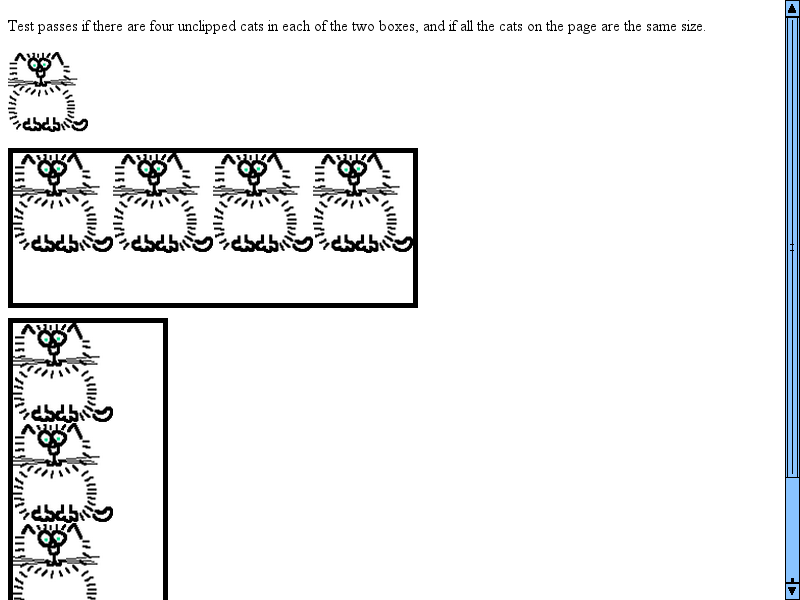
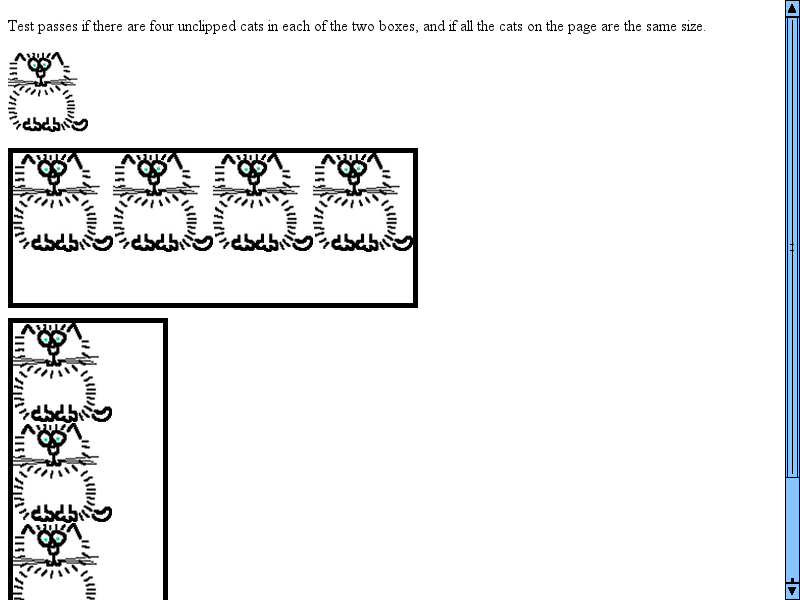
Round space up for background-image: round and space
The numerical rounding code that determines the image and space sizes
for background-repeat: round and background-repeat: space leads to
slivers of images appearing at the edge of the tiling.

It is better to round up and crop the last tile a little.

R=fmalita@chromium.org,pdr@chromium.org,chrishtr@chromium.org
BUG=449600

Review URL: https://codereview.chromium.org/860813003

git-svn-id: svn://svn.chromium.org/blink/trunk@188778 bbb929c8-8fbe-4397-9dbb-9b2b20218538

Changed region(s): [[0.0, 0.27, 0.5312, 0.42], [0.0312, 0.54, 0.1562, 1.0]]

diff --git a/LayoutTests/css3/masking/mask-repeat-round-auto2-expected.html b/LayoutTests/css3/masking/mask-repeat-round-auto2-expected.html
@@ -14,7 +14,7 @@
                 border: 50px solid blue;
                 padding: 50px;
                 -webkit-mask-image: url(resources/circle.png);
-                -webkit-mask-size: 124px 100px;
+                -webkit-mask-size: 123px 100px;
                 -webkit-mask-repeat: repeat;
                 -webkit-mask-origin: border-box;
                 -webkit-mask-clip: border-box;

diff --git a/LayoutTests/css3/masking/mask-repeat-round-auto1-expected.html b/LayoutTests/css3/masking/mask-repeat-round-auto1-expected.html
@@ -14,7 +14,7 @@
                 border: 50px solid blue;
                 padding: 50px;
                 -webkit-mask-image: url(resources/circle.png);
-                -webkit-mask-size: 111px 88px;
+                -webkit-mask-size: 111px 84px;
                 -webkit-mask-repeat: repeat;
                 -webkit-mask-origin: border-box;
                 -webkit-mask-clip: border-box;

diff --git a/LayoutTests/css3/masking/mask-repeat-round-border-expected.html b/LayoutTests/css3/masking/mask-repeat-round-border-expected.html
@@ -14,7 +14,7 @@
                 border: 50px solid blue;
                 padding: 50px;
                 -webkit-mask-image: url(resources/circle.png);
-                -webkit-mask-size: 111px 85px;
+                -webkit-mask-size: 111px 86px;
                 -webkit-mask-repeat: repeat;
                 -webkit-mask-origin: border-box;
                 -webkit-mask-clip: border-box;

diff --git a/LayoutTests/css3/masking/mask-repeat-round-content-expected.html b/LayoutTests/css3/masking/mask-repeat-round-content-expected.html
@@ -14,7 +14,7 @@
                 border: 50px solid blue;
                 padding: 50px;
                 -webkit-mask-image: url(resources/circle.png);
-                -webkit-mask-size: 72px 40px;
+                -webkit-mask-size: 73px 40px;
                 -webkit-mask-repeat: repeat;
                 -webkit-mask-origin: content-box;
                 -webkit-mask-clip: content-box;

diff --git a/LayoutTests/css3/background/background-repeat-round-auto2-expected.html b/LayoutTests/css3/background/background-repeat-round-auto2-expected.html
@@ -9,7 +9,7 @@
                 padding: 50px;
                 border: 50px solid transparent;
                 background-image: url(resources/circle.png);
-                background-size: 124px 100px;
+                background-size: 123px 100px;
                 background-repeat: repeat;
                 background-origin: border-box;
                 background-clip: border-box;

diff --git a/LayoutTests/css3/background/background-repeat-round-auto1-expected.html b/LayoutTests/css3/background/background-repeat-round-auto1-expected.html
@@ -9,7 +9,7 @@
                 padding: 50px;
                 border: 50px solid transparent;
                 background-image: url(resources/circle.png);
-                background-size: 111px 88px;
+                background-size: 111px 84px;
                 background-repeat: repeat;
                 background-origin: border-box;
                 background-clip: border-box;

diff --git a/LayoutTests/css3/background/background-repeat-round-border-expected.html b/LayoutTests/css3/background/background-repeat-round-border-expected.html
@@ -9,7 +9,7 @@
                 padding: 50px;
                 border: 50px solid transparent;
                 background-image: url(resources/circle.png);
-                background-size: 111px 85px;
+                background-size: 111px 86px;
                 background-repeat: repeat;
                 background-origin: border-box;
                 background-clip: border-box;

diff --git a/LayoutTests/css3/background/background-repeat-round-content-expected.html b/LayoutTests/css3/background/background-repeat-round-content-expected.html
@@ -9,7 +9,7 @@
                 padding: 50px;
                 border: 50px solid transparent;
                 background-image: url(resources/circle.png);
-                background-size: 72px 40px;
+                background-size: 73px 40px;
                 background-repeat: repeat;
                 background-origin: content-box;
                 background-clip: content-box;

diff --git a/Source/core/paint/BoxPainter.cpp b/Source/core/paint/BoxPainter.cpp
@@ -632,13 +632,16 @@ bool BoxPainter::isDocumentElementWithOpaqueBackground(RenderObject& obj)
     return isOpaque;
 }
 
-static inline int getSpace(int areaSize, int tileSize)
+// Return the amount of space to leave between image tiles for the background-repeat: space property.
+static inline int getSpaceBetweenImageTiles(int areaSize, int tileSize)
 {
     int numberOfTiles = areaSize / tileSize;
     int space = -1;
 
-    if (numberOfTiles > 1)
-        space = lroundf((float)(areaSize - numberOfTiles * tileSize) / (numberOfTiles - 1));
+    if (numberOfTiles > 1) {
+        // Spec doesn't specify rounding, so use the same method as for background-repeat: round.
+        space = lroundf((areaSize - numberOfTiles * tileSize) / (float)(numberOfTiles - 1));
+    }
 
     return space;
 }
@@ -725,11 +728,14 @@ void BoxPainter::calculateBackgroundImageGeometry(RenderBoxModelObject& obj, con
     if (backgroundRepeatX == RoundFill && positioningAreaSize.width() > 0 && fillTileSize.width() > 0) {
         long nrTiles = std::max(1l, lroundf((float)positioningAreaSize.width() / fillTileSize.width()));
 
+        // Round tile size per css3-background spec.
+        fillTileSize.setWidth(lroundf(positioningAreaSize.width() / (float)nrTiles));
+
+        // Maintain aspect ratio if background-size: auto is set
         if (fillLayer.size().size.height().isAuto() && backgroundRepeatY != RoundFill) {
             fillTileSize.setHeight(fillTileSize.height() * positioningAreaSize.width() / (nrTiles * fillTileSize.width()));
         }
 
-        fillTileSize.setWidth(positioningAreaSize.width() / nrTiles);
         geometry.setTileSize(fillTileSize);
         geometry.setPhaseX(geometry.tileSize().width() ? geometry.tileSize().width() - roundToInt(computedXPosition + left) % geometry.tileSize().width() : 0);
         geometry.setSpaceSize(IntSize());
@@ -739,11 +745,14 @@ void BoxPainter::calculateBackgroundImageGeometry(RenderBoxModelObject& obj, con
     if (backgroundRepeatY == RoundFill && positioningAreaSize.height() > 0 && fillTileSize.height() > 0) {
         long nrTiles = std::max(1l, lroundf((float)positioningAreaSize.height() / fillTileSize.height()));
 
+        // Round tile size per css3-background spec.
+        fillTileSize.setHeight(lroundf(positioningAreaSize.height() / (float)nrTiles));
+
+        // Maintain aspect ratio if background-size: auto is set
         if (fillLayer.size().size.width().isAuto() && backgroundRepeatX != RoundFill) {
             fillTileSize.setWidth(fillTileSize.width() * positioningAreaSize.height() / (nrTiles * fillTileSize.height()));
         }
 
-        fillTileSize.setHeight(positioningAreaSize.height() / nrTiles);
         geometry.setTileSize(fillTileSize);
         geometry.setPhaseY(geometry.tileSize().height() ? geometry.tileSize().height() - roundToInt(computedYPosition + top) % geometry.tileSize().height() : 0);
         geometry.setSpaceSize(IntSize());
@@ -753,7 +762,7 @@ void BoxPainter::calculateBackgroundImageGeometry(RenderBoxModelObject& obj, con
         geometry.setPhaseX(geometry.tileSize().width() ? geometry.tileSize().width() - roundToInt(computedXPosition + left) % geometry.tileSize().width() : 0);
         geometry.setSpaceSize(IntSize());
     } else if (backgroundRepeatX == SpaceFill && fillTileSize.width() > 0) {
-        int space = getSpace(positioningAreaSize.width(), geometry.tileSize().width());
+        int space = getSpaceBetweenImageTiles(positioningAreaSize.width(), geometry.tileSize().width());
         int actualWidth = geometry.tileSize().width() + space;
 
         if (space >= 0) {
@@ -774,7 +783,7 @@ void BoxPainter::calculateBackgroundImageGeometry(RenderBoxModelObject& obj, con
         geometry.setPhaseY(geometry.tileSize().height() ? geometry.tileSize().height() - roundToInt(computedYPosition + top) % geometry.tileSize().height() : 0);
         geometry.setSpaceSize(IntSize(geometry.spaceSize().width(), 0));
     } else if (backgroundRepeatY == SpaceFill && fillTileSize.height() > 0) {
-        int space = getSpace(positioningAreaSize.height(), geometry.tileSize().height());
+        int space = getSpaceBetweenImageTiles(positioningAreaSize.height(), geometry.tileSize().height());
         int actualHeight = geometry.tileSize().height() + space;
 
         if (space >= 0) {
